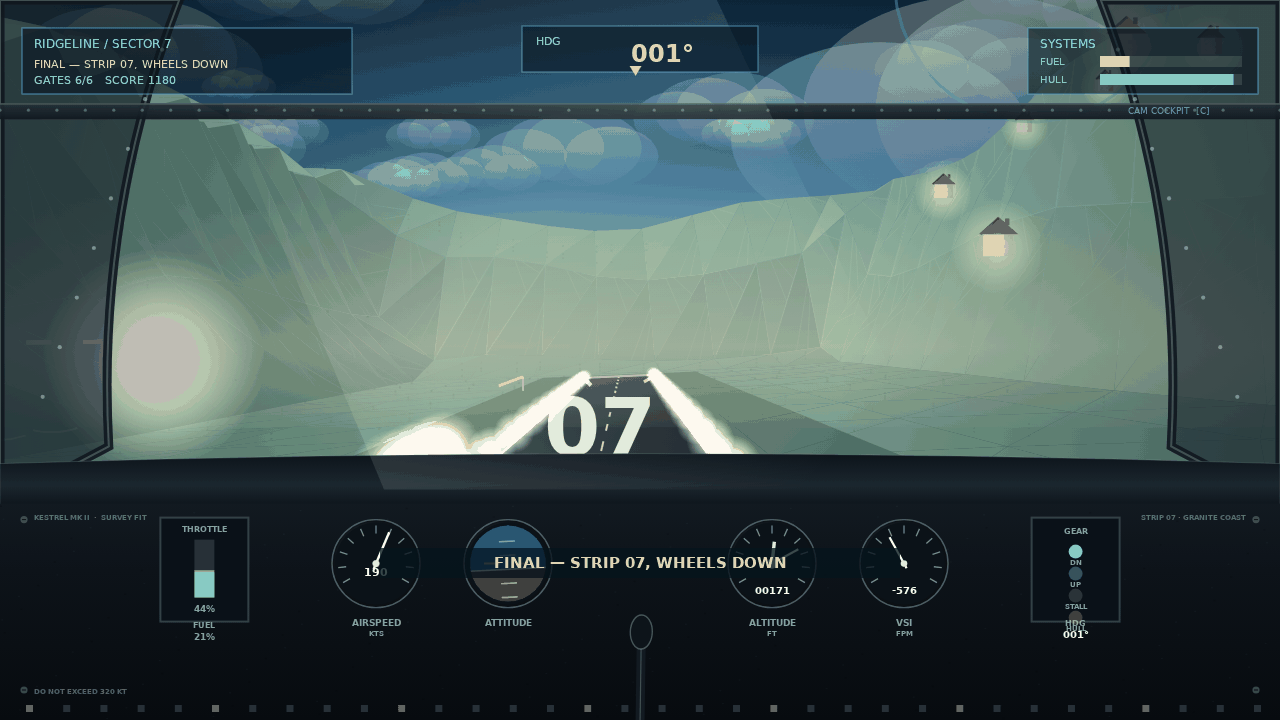
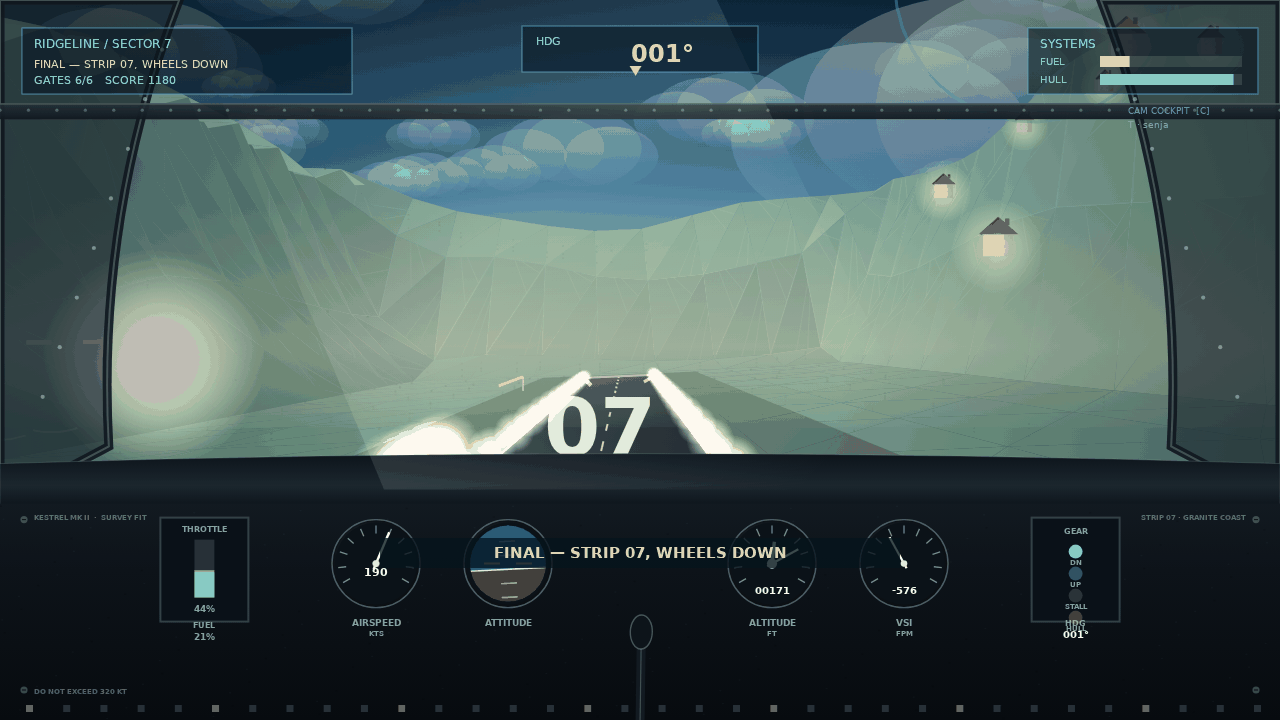
hud: label waktu, pesan tidak menabrak readout

Changed region(s): [[0.375, 0.7333, 0.625, 0.825]]

diff --git a/game/src/hud.js b/game/src/hud.js
@@ -12,6 +12,19 @@ const KTS_PER_MS = 1.94384;
 const FT_PER_M = 3.28084;
 const DEG = 180 / Math.PI;
 
+// Time of day belongs to the frame loop, which paints the HUD but does not hand
+// `tod` over the call: read it off the mounted game, and fall back to the dawn
+// default for non-browser paints. Bands mirror the sky ramps in atmosphere.js
+// so the caption never disagrees with the light it is describing.
+const TOD_BANDS = [[0.28, 'pagi'], [0.62, 'siang'], [0.8, 'senja']];
+
+function timeOfDayLabel() {
+  const game = typeof window === 'undefined' ? null : window.__flightGame;
+  const tod = game && typeof game.tod === 'number' ? game.tod : 0.34;
+  for (const [edge, name] of TOD_BANDS) if (tod < edge) return name;
+  return 'malam';
+}
+
 function panel(ctx, x, y, w, h) {
   ctx.fillStyle = 'rgba(6,22,32,0.6)';
   ctx.strokeStyle = 'rgba(105,214,226,0.5)';
@@ -201,16 +214,18 @@ export function paintHud(ctx, width, height, plane, mission, input, view = 'chas
     ctx.closePath();
     ctx.fill();
   label(ctx, 'CAM ' + (cockpit ? 'COCKPIT' : 'CHASE') + '  [C]', width - pad - 130, cockpit ? pad + 92 : pad + 100, 9, '#6c9aa9');
+  label(ctx, 'T · ' + timeOfDayLabel(), width - pad - 130, cockpit ? pad + 106 : pad + 114, 9, ink.meta);
   }
 
-  // Transient order line, lower centre, above the readout boxes.
+  // Transient order line, lower centre, lifted clear of the readout boxes
+  // below (they start at height - 132) so a fresh order never sits on a dial.
   if (mission.messageAge > 0 && !mission.finished) {
     ctx.font = 'bold 15px Courier New';
     ctx.textAlign = 'center';
     ctx.fillStyle = 'rgba(5,20,28,0.78)';
-    ctx.fillRect(centreX - 260, height - 172, 520, 30);
+    ctx.fillRect(centreX - 260, height - 182, 520, 30);
     ctx.fillStyle = '#ffd88f';
-    ctx.fillText(mission.message, centreX, height - 152);
+    ctx.fillText(mission.message, centreX, height - 162);
     ctx.textAlign = 'left';
   }
 }

diff --git a/game/src/atmosphere.js b/game/src/atmosphere.js
@@ -49,8 +49,14 @@ export function paintAtmosphereBack(ctx, project, width, height, cam, tod) {
   // Bloom and disc, added rather than painted so the sky brightens under it.
   ctx.save();
   ctx.globalCompositeOperation = 'lighter';
+  // Radius 330 sits well outside the 18 px disc, so the falloff reads as air
+  // glare instead of a stamped circle; it also stays inside the 700 px fill
+  // box, which keeps the gradient's outer ring off the frame edge. The low sun
+  // adds more glare than noon, so past 0.7 the core is pulled back and warmed
+  // rather than left at full strength.
+  const bloomCore = tod > 0.7 ? 'rgba(255,196,150,0.42)' : 'rgba(255,244,214,0.6)';
   const bloom = ctx.createRadialGradient(sun.x, sun.y, 4, sun.x, sun.y, 330);
-  bloom.addColorStop(0, tod > 0.7 ? 'rgba(255,196,150,0.55)' : 'rgba(255,244,214,0.6)');
+  bloom.addColorStop(0, bloomCore);
   bloom.addColorStop(0.3, 'rgba(255,214,158,0.18)');
   bloom.addColorStop(1, 'rgba(255,200,140,0)');
   ctx.fillStyle = bloom;
